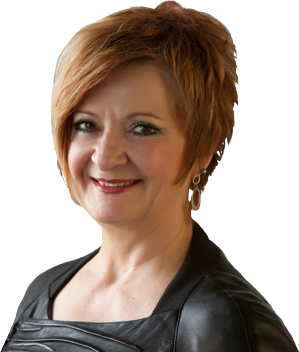
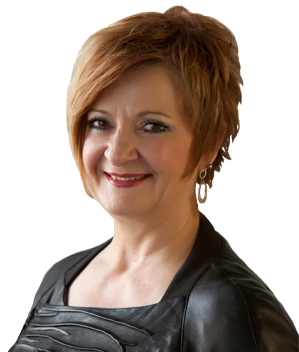
added better val cutout

diff --git a/index.html b/index.html
@@ -6,7 +6,9 @@
 	  <meta name="keywords" content="">
     <link rel="stylesheet" href="css/styles.css">
     <link rel="stylesheet" href="css/slider.css"> <!-- Only for the index! -->
-    <link rel="stylesheet" href="css/mailform.css">    
+    <link rel="stylesheet" href="css/mailform.css">
+    <script type="text/javascript" src="http://use.typekit.com/ool6ylm.js"></script>
+    <script type="text/javascript">try{Typekit.load();}catch(e){}</script>
 	</head>
 	<body>
     <div id ="container">
@@ -106,20 +108,25 @@
       </div>
       <div id="footer">
         <div id ="footer-container">
-          <ul>
-            <li><a href ="#">About Us</a></li>
-            <li><a href ="#">Services</a></li>
-            <li><a href ="#">Contact Us</a></li>
-          </ul>
-          <div class="float-right">
-            <p class="copyright">Copyright 2011 Val Monk & Associates, All Rights Reserved.</p>
-            <p class="innovatis"><a href ="http://innovatisinc.ca" target ="_blank">Website by Innovatis Inc.</a></p>
+          <div class="column-33">
+            <ul>
+              <li><a href ="#">About Us</a></li>
+              <li><a href ="#">Services</a></li>
+              <li><a href ="#">Contact Us</a></li>
+            </ul>
+          </div>
+          <div class="column-33">
+            <div class="footer-logo"></div>
+          </div>
+          <div class="column-33">
+            <div class="float-right">
+              <p class="copyright">Copyright 2011 Val Monk & Associates, All Rights Reserved.</p>
+              <p class="innovatis"><a href ="http://innovatisinc.ca" target ="_blank">Website by Innovatis Inc.</a></p>
+            </div>
           </div>
         </div>
       </div>
     </div>
-    <script type="text/javascript" src="http://use.typekit.com/ool6ylm.js"></script>
-    <script type="text/javascript">try{Typekit.load();}catch(e){}</script>
     <script type="text/javascript" src="js/jquery-1.6.2.min.js"></script>
     <script type="text/javascript" src="js/jquery.tools.min.js"></script>
     <script type="text/javascript" src="js/functions.js"></script>

diff --git a/css/styles.css b/css/styles.css
@@ -217,7 +217,7 @@ strong {
   background: #f9fbff;
   width: 910px;
   padding: 25px;
-  margin: 0 auto;
+  margin: 0 auto -7px auto;
   border: 1px solid #ddd;
   -webkit-border-radius-topleft:  5px;
   -webkit-border-radius-topright: 5px;
@@ -257,14 +257,23 @@ strong {
   background: #0069f9;
 }
 
+#footer-container .footer-logo {
+  background: url(../images/footer-logo.png);
+  height:125px;
+  width:121px;
+  margin: 20px auto;
+  }
+
 #footer-container p.copyright {
   color: white;
   font-size: 1em;
+  margin-top: 10px;
 }
 
-#footer-container p.innovatis a {
+#footer-container p.innovatis ,#footer-container p.innovatis a{
   color: white;
   font-size: 1em;
+  margin-top: -10px;
 }
 
 a.call-to-action-button {
